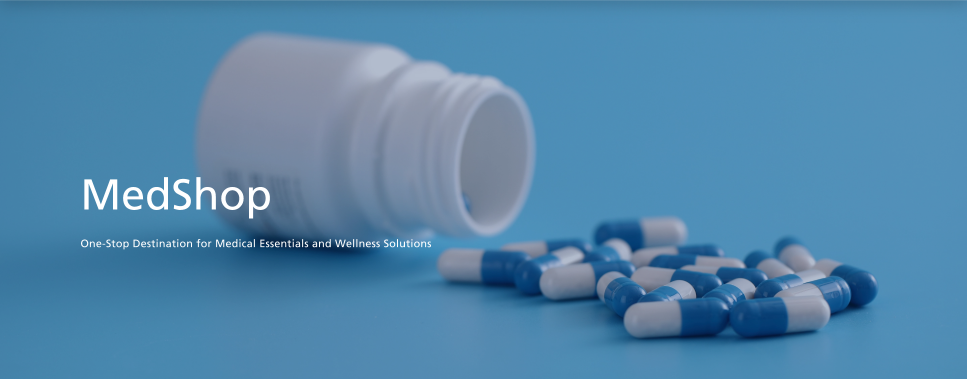
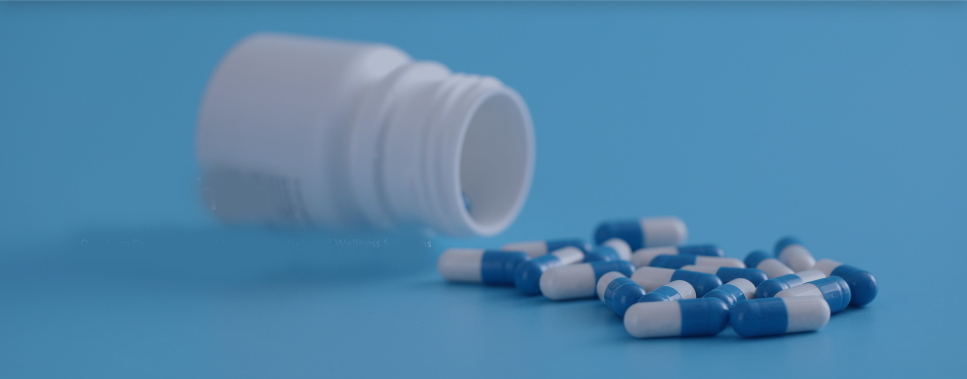
overall finished

Changed region(s): [[0.062, 0.4644, 0.4654, 0.7256]]

diff --git a/style.css b/style.css
@@ -158,7 +158,7 @@
 }
 
 .banner {
-    /* background-image: url(./assets/banner.jpg); */
+    background-image: url(./assets/banner1.jpg);
     background-color: #4685ac;
     background-size: cover;
     height: 80vh;
@@ -166,7 +166,7 @@
 }
 
 .banner .title {
-    margin-top: 30vh;
+    margin-top: 38vh;
     color: #fff;
     letter-spacing: 1px;
     font-size: 45px;
@@ -434,6 +434,22 @@ footer .socials ul li:last-child {
     font-size: 13px;
 }
 
+.discount{
+    background-color: var(--primary-font-color);
+    margin: 0 0 100px 0;
+    padding: 20px 0;
+    color: #e2e2e2;
+}
+
+.discount span{
+    color: var(--secondary-font-color);
+}
+
+.discount .title{
+    font-weight: 400;
+    font-size: 40px;
+}
+
 @media (min-width: 700px) {
     footer .menu-mobile, .quick-link-mobile {
         display: none !important;
@@ -487,6 +503,15 @@ footer .socials ul li:last-child {
 
     .slider-sec{
         padding: 45px 0;
+    }
+
+    .discount {
+        margin: 0 0 70px 0;
+    }
+
+    .discount .title {
+        font-size: 35px;
+        padding: 30px 0;
     }
 }
 

diff --git a/index.html b/index.html
@@ -253,6 +253,19 @@
         </div>
     </section>
 
+    <section class="discount">
+        <div class="container">
+            <div class="row" style="align-items: center;">
+                <div class="col-md-7">
+                    <h2 class="title">Exclusive <span>Discount</span> on <br>Essentials <span>Wellness</span> Products</h2>
+                </div>
+                <div class="col-md-5">
+                    <img src="./assets/discount-image.PNG" alt="" width="100%">
+                </div>
+            </div>
+        </div>
+    </section>
+
     <!-- footer -->
     <footer>
         <div class="container">
